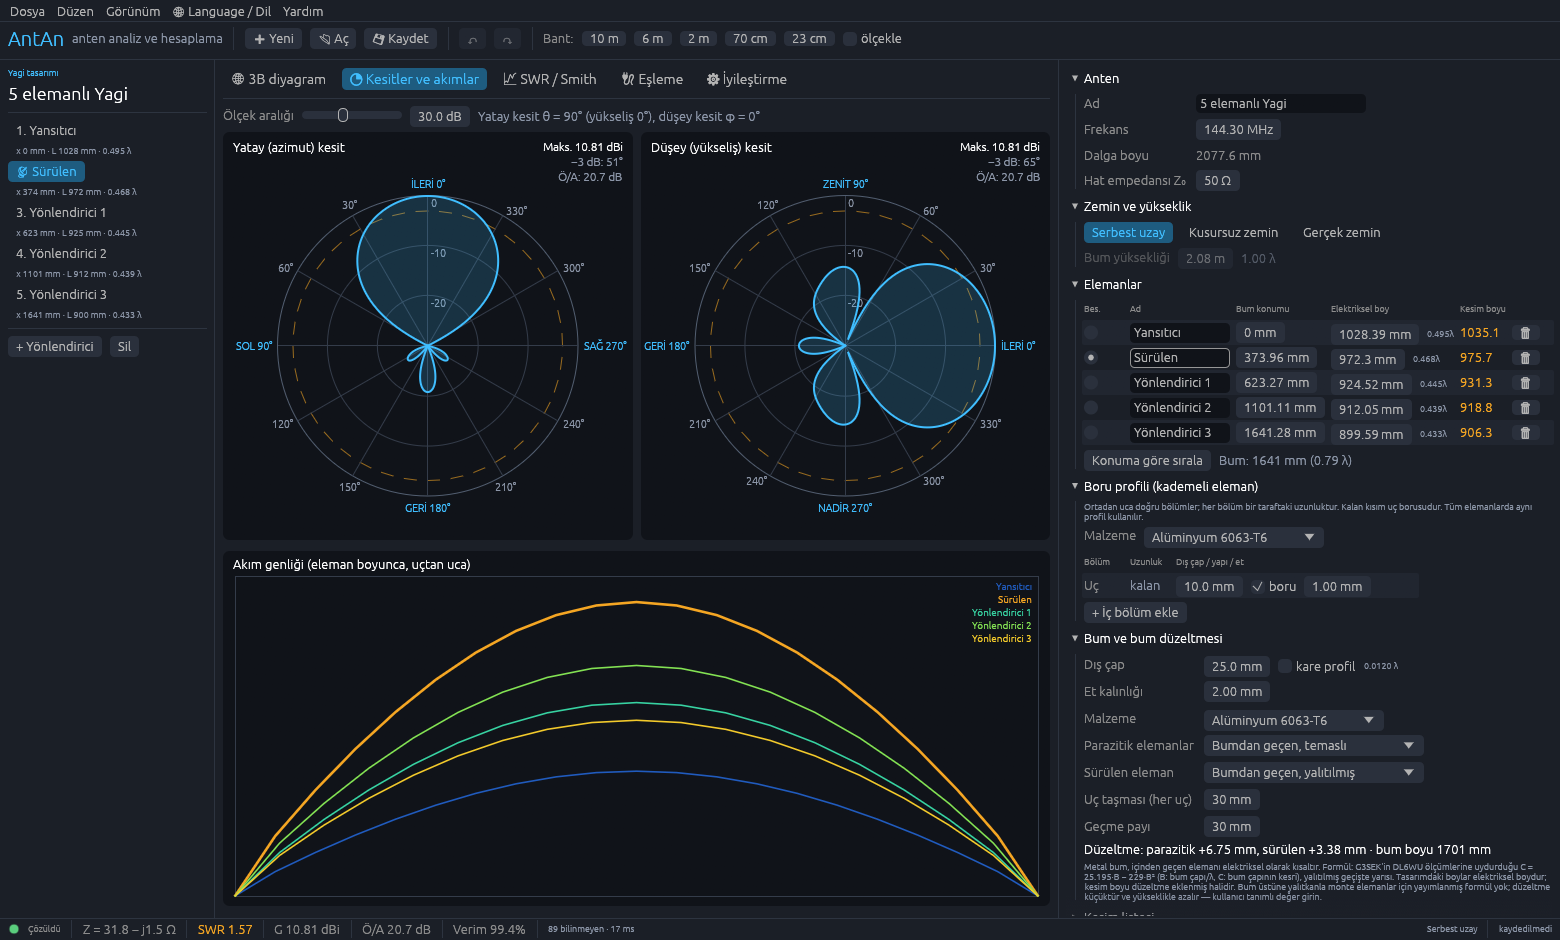
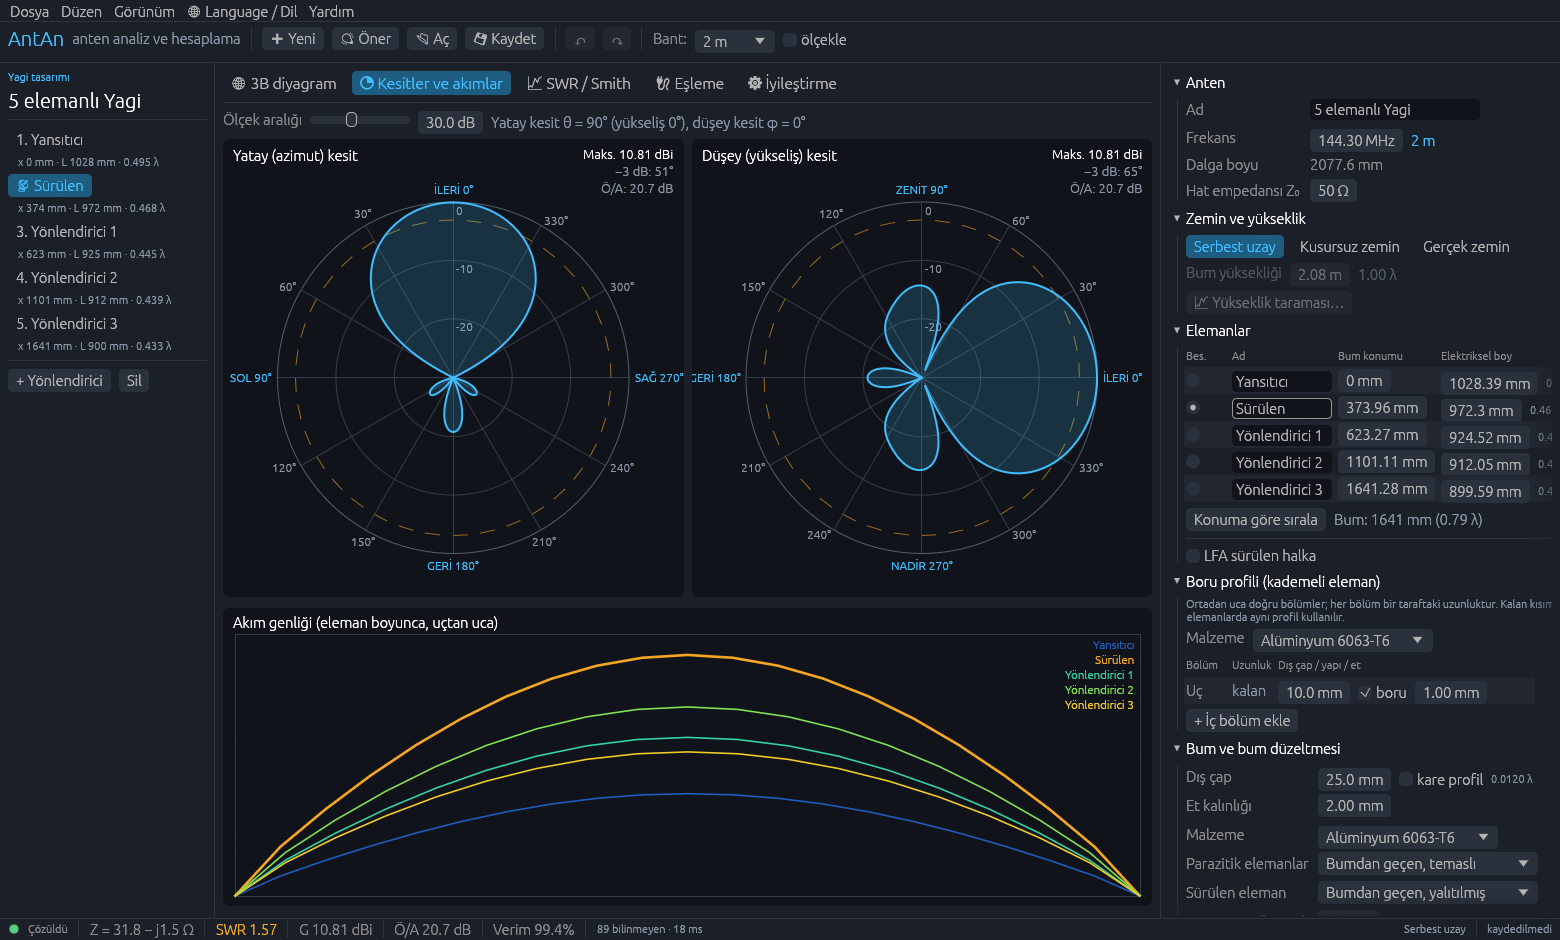
Update user guide screenshots for 0.2.0 (EN/TR)
- Retake all guide images with the 0.2.0 interface (cards under the
  pattern, band menu, Suggest button); renumber the overview callouts
- New images: antenna suggestions, height scan, Moxon gap dimensions,
  LFA Yagi; linked from the matching sections of both guides

diff --git a/docs/kullanim-kilavuzu.md b/docs/kullanim-kilavuzu.md
@@ -237,6 +237,8 @@ Sonuç tasarıma uygulanır ve geri alınabilir.
   açısını yüksekliğe göre çizer, Ö/A, empedans ve SWR'yi tabloda verir. Fareyle grafikte değer
   okunur; grafiğe tıklayınca (ya da tablodaki *uygula*) o yükseklik modele uygulanır.
 
+![Ortalama toprak üzerinde 20 m dipolün yükseklik taraması](guide/tr/heightscan.png)
+
 Zemin varken **Kalkış açısı** kartı çıkar: en güçlü ışımanın yükseliş açısı. Anten yükseldikçe açı
 düşer (DX için daha iyi). Yatay kesit de bu durumda kalkış açısında alınır.
 
@@ -298,6 +300,8 @@ Eleman bazlı Yagi olmayan her şey bir **tel modelidir**.
 yansıtıcı kuyrukları arası — mesafe **Tel uçları arası boşluklar** bölümünde listelenir ve 3B
 görünümde turuncu kesikli ölçü çizgisiyle gösterilir.
 
+![Kuyruk boşlukları listelenmiş ve ölçülendirilmiş Moxon](guide/tr/moxon-gap.png)
+
 ## 11. Yükler: bobin, kondansatör ve tuzak
 
 ![Yüklemeler bölümü](guide/tr/panel-loads.png)
@@ -326,6 +330,8 @@ dikeyler — kurar, çözer ve kazanç, ön/arka, besleme empedansı, SWR ve en 
 listeler (12 m üstü turuncu, 25 m üstü kırmızı). **Aç** birini yeni tasarım olarak yükler. Beam ve
 tel antenler serbest uzayda, dikeyler zeminleriyle karşılaştırılır.
 
+![14.175 MHz için anten önerileri](guide/tr/suggest.png)
+
 ## 13. LFA Yagi (halka beslemeli)
 
 LFA'da (G0KSC tarzı) sürülen eleman, **eleman düzleminde yatan dikdörtgen bir halkadır**; çevresi
@@ -335,6 +341,8 @@ oluşturur. Her Yagi, eleman tablosunun altındaki **LFA sürülen halka** kutus
 çevrilebilir: sürülen elemanın boyu halkanın uzun kenarı olur, **halka genişliği** bum boyunca
 ölçülür. Kesim listesi halka kenarlarını verir; halkaya bum düzeltmesi uygulanmaz. Başlangıçtaki
 yönlendiriciler standart olanlardır — en iyi ön/arka için İyileştirme sekmesini çalıştırın.
+
+![7 elemanlı LFA Yagi; LFA sürülen halka seçeneği eleman tablosunun altında](guide/tr/lfa.png)
 
 ## 14. Dosyalar
 

diff --git a/docs/user-guide.md b/docs/user-guide.md
@@ -240,6 +240,8 @@ In **Ground and height**:
   takeoff angle against height, with a table of F/B, impedance and SWR. Hover the chart to read
   values; click it (or *apply* in the table) to set that height on the model.
 
+![Height scan of a 20 m dipole over average soil](guide/en/heightscan.png)
+
 With ground, a **Takeoff angle** card appears — the elevation of maximum radiation. Higher antennas
 give lower angles (better for DX). The horizontal cut is then taken at the takeoff angle.
 
@@ -298,6 +300,8 @@ Anything that is not an element-based Yagi is a **wire model**.
 driven and reflector tails of a Moxon — the distance is listed in **Gaps between wire ends** and
 drawn as an amber dashed dimension in the 3D view.
 
+![Moxon with the tail gaps listed and dimensioned](guide/en/moxon-gap.png)
+
 ## 11. Loads: coils, capacitors and traps
 
 ![Loads section](guide/en/panel-loads.png)
@@ -327,6 +331,8 @@ solves them and lists gain, front/back, feed impedance, SWR and the largest dime
 (amber above 12 m, red above 25 m). **Open** loads one as a new design. Beams and wire antennas are
 compared in free space; verticals with their ground.
 
+![Antenna suggestions for 14.175 MHz](guide/en/suggest.png)
+
 ## 13. LFA Yagi (loop fed array)
 
 In an LFA (G0KSC style) the driven element is a rectangular **loop lying in the element plane**,
@@ -336,6 +342,8 @@ this solver. Any Yagi can be switched with the **LFA driven loop** checkbox unde
 the driven element's length is then the loop's long side and **loop width** is measured along the
 boom. The cut list shows the loop sides; no boom correction is applied to the loop. The starting
 directors are the standard ones — run the Optimization tab for the best front/back.
+
+![7-element LFA Yagi; the LFA driven loop option is under the element table](guide/en/lfa.png)
 
 ## 14. Files
 
